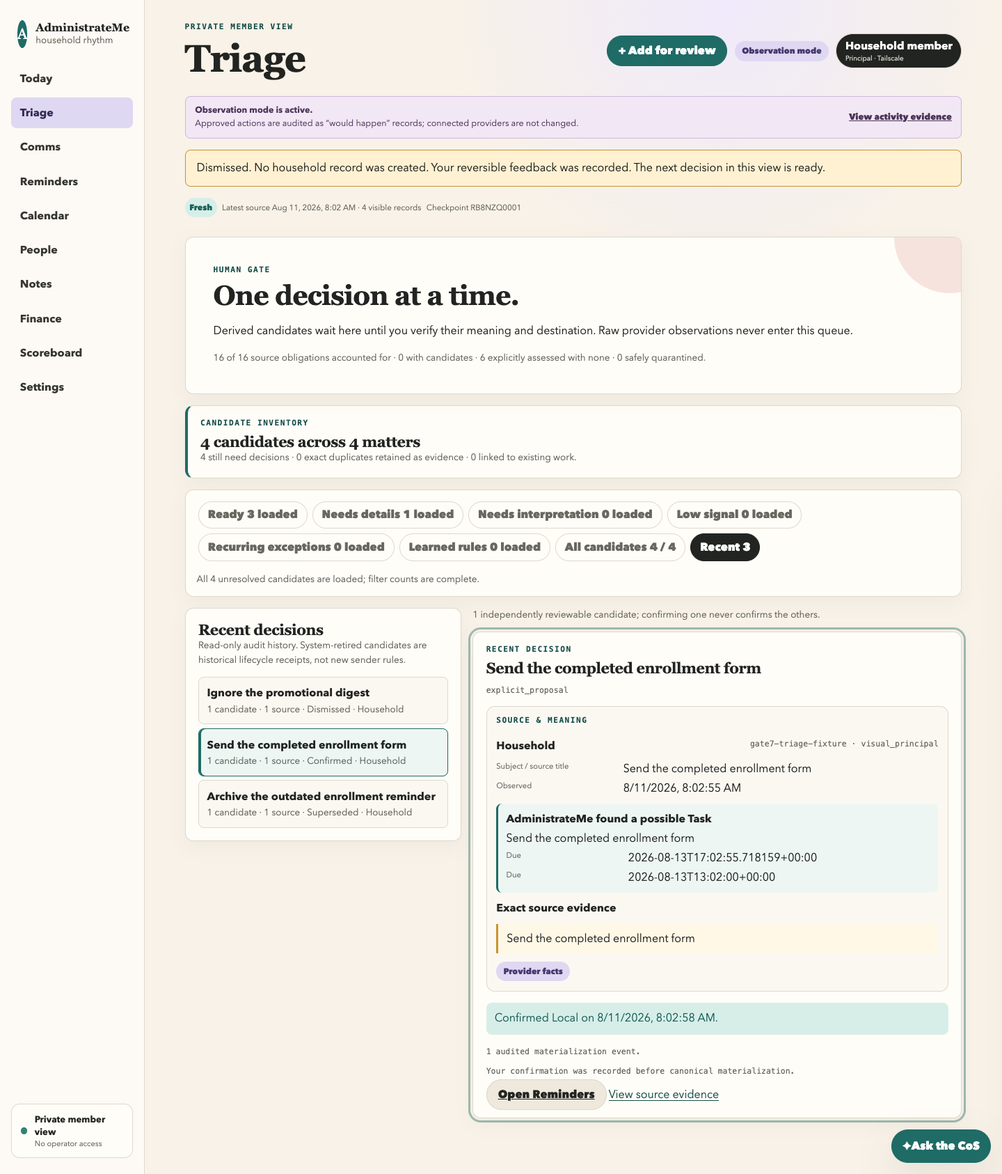
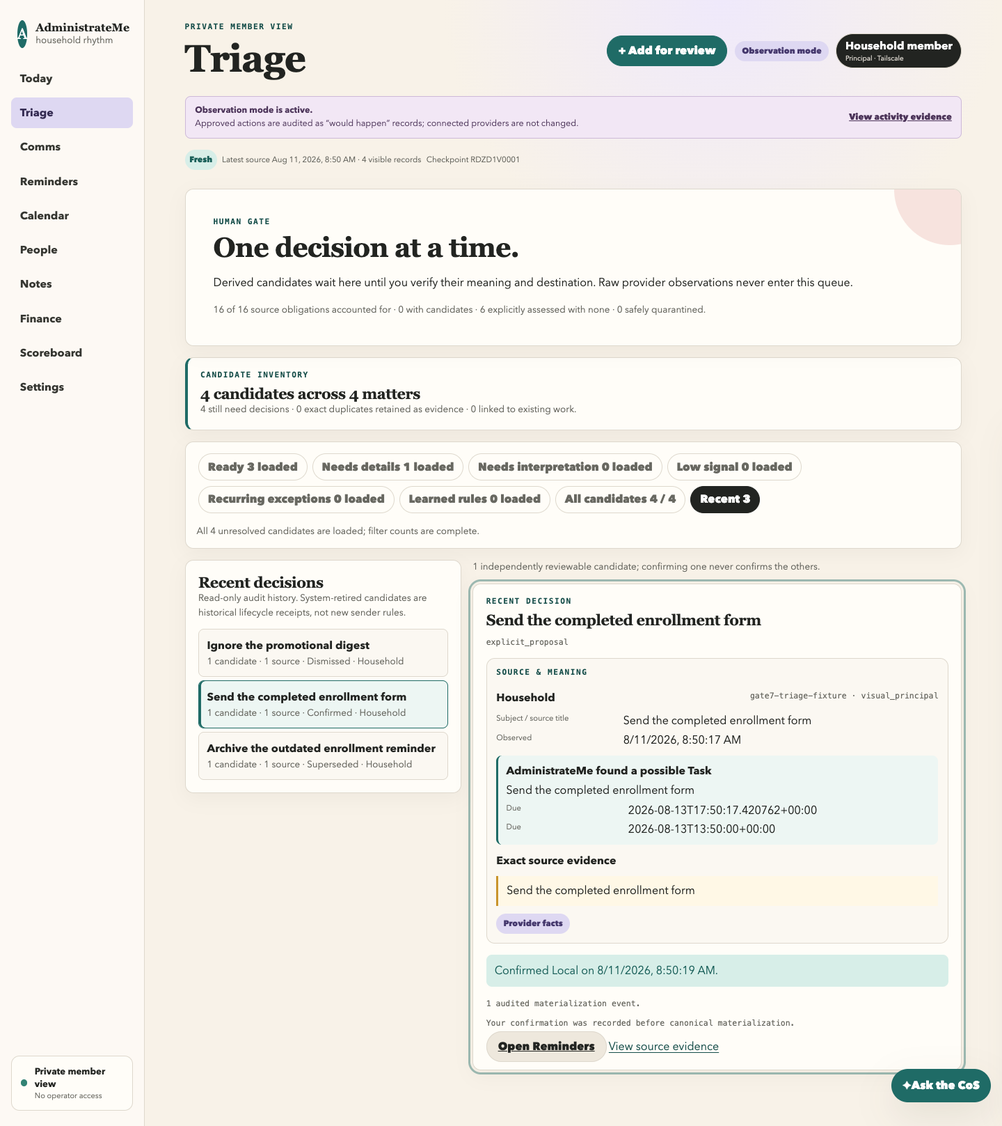
Clear stale Triage continuation on lens change

diff --git a/adminme/products/member/assets/member.js b/adminme/products/member/assets/member.js
@@ -734,7 +734,7 @@ function triageSurface(data) {
     const count = key === "recent" ? recent.length : pending.filter((item) => triageCandidateMatches(item, key)).length;
     const countLabel = key === "recent" ? `${count}` : key === "all_candidates" ? `${count} / ${candidateCount}` : `${count} loaded`;
     const button = text("button", `${label} ${countLabel}`, "comms-filter"); button.type = "button"; button.setAttribute("aria-pressed", String(state.triageView === key));
-    button.addEventListener("click", () => { state.triageView = key; state.triageSelected = null; state.triageMatter = null; state.triageFocusPending = false; data.focus = { requested_candidate_id: null, state: "not_requested", candidate_state: null, matter_id: null }; replaceQuery({ view: key, item: null, matter: null }); renderSurface(data); }); tabs.append(button);
+    button.addEventListener("click", () => { clearBanner(); state.triageView = key; state.triageSelected = null; state.triageMatter = null; state.triageFocusPending = false; data.focus = { requested_candidate_id: null, state: "not_requested", candidate_state: null, matter_id: null }; replaceQuery({ view: key, item: null, matter: null }); renderSurface(data); }); tabs.append(button);
   }
   controls.append(tabs);
   if (data.triage?.has_more) controls.append(text("p", `${pending.length} of ${candidateCount} candidates are loaded. Filter counts marked “loaded” cover this cursor window; the complete inventory totals are above. Load more matters to continue toward zero.`, "state-note"));

diff --git a/docs/refactor/evidence/gate-7/visual/README.md b/docs/refactor/evidence/gate-7/visual/README.md
@@ -40,6 +40,7 @@ The harness starts credential-free loopback fixtures, uses Google Chrome via pla
 - PASS: Triage dismissal records feedback without leaving the work queue
 - PASS: Triage keeps the selected member bound to the signed-in identity
 - PASS: Triage receipt is destination-readable before return
+- PASS: Changing Triage lenses clears view-relative continuation feedback
 - PASS: Recent distinguishes eligibility replacement from learned sender rules without inventing provenance
 - PASS: Recent decision retains destination receipt
 - PASS: Google Tasks uses only its reviewed date capability
@@ -215,12 +216,12 @@ The harness starts credential-free loopback fixtures, uses Google Chrome via pla
 - PASS: tablet reduced-motion keyboard focus indicator
 - PASS: reduced motion honored
 - PASS: private quest created
-- PASS: /member/quests/view_79bdca80a1394244 HTTP
-- PASS: /member/quests/view_79bdca80a1394244 title
+- PASS: /member/quests/view_92e72d9c413c43c6 HTTP
+- PASS: /member/quests/view_92e72d9c413c43c6 title
 - PASS: private quest undiscoverable
 - PASS: quest promoted by explicit review
-- PASS: /member/quests/view_79bdca80a1394244 HTTP
-- PASS: /member/quests/view_79bdca80a1394244 title
+- PASS: /member/quests/view_92e72d9c413c43c6 HTTP
+- PASS: /member/quests/view_92e72d9c413c43c6 title
 - PASS: archived quest has no navigation entry
 - PASS: expiring quest created
 - PASS: expired quest has no navigation entry
@@ -250,35 +251,35 @@ The harness starts credential-free loopback fixtures, uses Google Chrome via pla
 
 ## Screenshots
 
[56 lines of base64/hex data omitted]
@@ -288,4 +289,4 @@ The harness starts credential-free loopback fixtures, uses Google Chrome via pla
[5 lines of base64/hex data omitted]

diff --git a/docs/refactor/ACCEPTANCE-CONTRACT.md b/docs/refactor/ACCEPTANCE-CONTRACT.md
@@ -7,7 +7,8 @@ pressed, and the next visible matter remains manageable. Exact resolved deep
 links still open Recent. Dismissing the final Ready item reports the empty
 refreshed Ready queue truthfully. Historical eligibility-rule supersessions retain their
 immutable state while rendering as context-or-eligibility lifecycle receipts
-rather than inventing migration provenance or new member sender rules.
+rather than inventing migration provenance or new member sender rules. Moving
+to another Triage lens clears the prior lens-relative continuation message.
 
 CO-015 live evidence (2026-08-11): PR #331 exact head
 `ca1a29033e48d5d6d32a0cd77de3fc0c1266778f` passed independent full-diff
@@ -301,7 +302,7 @@ post-merge activation boundary and cannot be represented as a fixture pass.
 | AC-38 | Gmail pack tests and `test_supervisor_initial_backfill_is_bounded_and_restart_durable` in `tests/integration/test_adapter_supervisor_gmail.py`; full source-assurance, Comms/Triage, bootstrap, Doctor, and guarded live checklist | Before any first-use history acquisition, Gmail durably snapshots the incremental cursor; an installation that already has a forward cursor but no policy receipt must still acquire. Validated capped `messages.list` queries exclude drafts and spam/trash; member-private historical seeds run first, exact non-member seed participants expand through bounded date-window queries, and recent history fills only the remaining global cap. Synchronous provider acquisition runs off the central asyncio loop, and a held-open provider call cannot block runtime health or unrelated scheduling. The bounded batch is fetched before append, with generic/related context before reviewed seeds and each group oldest-first, so newest-first provider results cannot strand a thread anchor with incomplete context. All messages use the ordinary account-bound direction/dedupe/quarantine path, and a content-free policy-digest completion marker is recorded only after terminal handling. A message that disappears between provider discovery and `messages.get` is terminally quarantined, does not increment the transport-error cursor, and does not degrade an otherwise successful Gmail polling cycle. Query text cannot enter events, status, or cursor IDs. Recreating the adapter with the same store never relists or re-emits the bounded history. Truncation is explicit. Every deterministic context reason is admitted atomically by the pinned skill input and typed Triage context schemas, and a reviewed consumer generation replays immutable facts rejected by the prior schema. A new generation is mandatory after a rejected live attempt has retained conflicting idempotency state; history is never deleted to escape the conflict. The idempotent language-bound consumer retains the reviewed eight-way width, collapses a repeated typed identity within one recorded interpretation before its assessment/proposal boundary, moves deliberately shared cross-source identities through atomic first-equivalent-writer handling, keeps ordered-prefix checkpoints and a one-hour guarded settlement ceiling, and serializes at most two transient pinned-seam recovery attempts under separate deterministic durable invocation identities without weakening terminal failure; any new non-source capability degradation during settlement causes immediate full Doctor and rollback. Liveness, terminal equality, synthetic proof, and automatic rollback remain mandatory. Downstream contextual reasoning can recover distinct human-gated work from acquired thread history and exact authored participant references in same-scope third-party notices, but acquisition itself cannot create canonical truth or any provider effect. |
 | AC-39 | `tests/unit/test_{projection_context_fabric,triage_inventory}.py`; `tests/acceptance/test_co014_context_fabric_stress.py`; `scripts/acceptance/context-fabric-two-year-simulation.py`; Triage API/browser, migration, replay, Doctor, backup/restore, and performance gates | The fifteenth `context_fabric` projection stores no source bodies, rebuilds exactly, and exposes only tenant/member/private-scope bounded authoritative traversal; model suggestions cannot enter that traversal. Provider conversations and 30-day/100-source deterministic matters remain distinct. Candidate Inventory reports complete counts and stable cursor pages; the Decision Queue displays one matter with independently decidable children. Exact duplicates and unambiguous existing Task/Calendar/Reminder/Recurrence matches remain evidence, not extra work; ambiguity remains review. Typed dismissal feedback can suggest a rule only after repetition; preview counts are stale-safe, approval is explicit/reversible/shadow-only, and no rule confirms, suppresses, routes, or writes. Fixed-seed two-member low/base/high 730-day runs admit 100% of high-priority sources, lose zero inventory rows, create zero cross-scope links/provider effects, keep the base decision backlog bounded, cap traversal/matter size, and stay within reviewed storage/query estimates. Production HTTP proves every fixture candidate reachable exactly once and cross-member invisible before and after Triage/Context Fabric replay. |
 | AC-40 | `tests/unit/test_{today_brief,triage_inventory,surface_contracts,comms}.py`; CO-015 assertions in `tests/acceptance/test_{co014_context_fabric_stress,gate7_household_experience}.py`; Gate 7 browser harness; authenticated live Today/Triage/Comms/Notes/Scoreboard review; release/Doctor/backup checks | `member-decision-context-v1` deterministically names the member question, situation, reason, source, uncertainties, fixed consequences, next step, candidate, matter, and member authority without copying source bodies or granting model/write authority. An off-page pending candidate, a resolved candidate beyond the ordinary recent limit, and a nonexistent/cross-member id produce exact pending/resolved/not-found focus state with no substituted item. Candidate-and-matter URL state survives reload/history and deliberate lens escape. Comms and Notes retain exact candidate/matter links; Scoreboard active Tasks return to exact Reminders items; all ten adult routes participate in the non-authorizing typed link contract. Desktop/tablet/390-pixel rendering, names, focus, reduced motion, overflow, source disclosure, zero console/page/request failures, observation mode, and zero unintended provider effects pass. |
-| AC-41 | CO-016 Gate 7 browser assertions plus existing Triage API/projection, feedback, learning-policy, source-assurance, replay, privacy/isolation, and release gates | Confirm and Dismiss & teach each clear the resolved candidate/matter URL state, preserve the active working lens, select the next available matter when present, and leave feedback derived from the refreshed visible lens without opening Recent. Dismissing the only Ready item in an isolated member queue reports that the member is caught up and that nothing is ready to confirm. A direct exact link to a resolved candidate remains read-only and inspectable. Recent identifies `eligibility_rule_replaced` as historical context-or-eligibility replacement, not a proven migration or sender rule learned from the current dismissal. No event, feedback receipt, immutable decision, learned-rule boundary, canonical record, projection authority, or provider-write gate is weakened. |
+| AC-41 | CO-016 Gate 7 browser assertions plus existing Triage API/projection, feedback, learning-policy, source-assurance, replay, privacy/isolation, and release gates | Confirm and Dismiss & teach each clear the resolved candidate/matter URL state, preserve the active working lens, select the next available matter when present, and leave feedback derived from the refreshed visible lens without opening Recent. Dismissing the only Ready item in an isolated member queue reports that the member is caught up and that nothing is ready to confirm. Selecting a different lens clears the prior lens-relative continuation feedback before rendering it. A direct exact link to a resolved candidate remains read-only and inspectable. Recent identifies `eligibility_rule_replaced` as historical context-or-eligibility replacement, not a proven migration or sender rule learned from the current dismissal. No event, feedback receipt, immutable decision, learned-rule boundary, canonical record, projection authority, or provider-write gate is weakened. |
 
 ## Aggregate release command
 

diff --git a/docs/refactor/CONSTITUTIONAL-CROSSWALK.md b/docs/refactor/CONSTITUTIONAL-CROSSWALK.md
@@ -6,7 +6,8 @@ Resolving one candidate consumes its exact focus and leaves the member in the
 chosen work lens; immutable Recent history remains separately inspectable and
 labels context-or-eligibility replacement distinctly from reversible feedback
 without inventing migration provenance. Continuation feedback is derived from
-the refreshed visible lens and says the member is caught up when it is empty.
+the refreshed visible lens, says the member is caught up when it is empty, and
+is cleared before a deliberately selected different lens renders.
 
 CO-013 amendment (2026-08-10): C002/C004/C007/C025/C034/C106-C108 now require
 bounded durable acquisition of pre-existing provider history when a forward-
@@ -466,7 +467,7 @@ Source abbreviations: **VISION** = WHAT-IS; **BUILD** = ADMINISTRATEME_BUILD; **
 | C109 | A source cannot be called complete merely because incremental observation began successfully; adapters that would omit actionable pre-install history must perform a bounded, durable, truthfully reported acquisition before relying on the forward cursor, without blocking central runtime liveness while synchronous provider I/O is in flight; deterministic context vocabulary must remain atomic across producer, pinned language input, and typed projection schemas; a record that disappears after provider discovery must receive an audited quarantine without falsely degrading the otherwise advancing adapter | ADHD prospective-memory objective; eight-stage Observe loop; D19; central-runtime topology; CO-007/CO-008/CO-010/CO-013; C002/C004/C007/C025/C034/C106-C108 | Gmail adapter v1.1.1, cursor-before-list ordering, private historical seed priority, deterministic exact-participant/date expansion, validated recent/global hard ceilings, draft/spam/trash exclusion, worker-thread provider acquisition, cross-schema context-vocabulary tests, reviewed failed-fact replay, typed direction/dedupe/quarantine path with healthy cursor advance after a list/get deletion race, content-free policy-digest completion cursor, event-loop liveness and supervisor restart proof | PRESERVE provider/event/privacy/human/write authority and one central runtime; HARDEN source completeness, liveness, schema compatibility, truthful health, and record-race accounting; SUPERSEDE forward-only first-run snapshot and quarantine-as-transport-backoff | AC-07–AC-12, AC-14, AC-21, AC-25, AC-33–AC-38 |
 | C110 | Context is a typed, temporal, scoped, rebuildable relationship index—not truth, model memory, or a universal Project—and complete candidate inventory is distinct from the bounded member decision queue | ADR-0008; CO-014; ADHD working-memory/noise-filtering objective; C001-C109 | Fifteenth `context_fabric` projection; authority-coded edges; private bounded traversal; 30-day/100-source matter episodes; exact duplicate/existing-object/recurrence evidence reconciliation; full cursor inventory; matter-first Triage; typed feedback and reversible shadow rules; fixed-seed two-year and production pagination/replay proofs | PRESERVE all prior authority/privacy/domain boundaries; MODERNIZE context and Triage; SUPERSEDE exact-fourteen count, hidden truncation, provider-thread-as-matter, scalar-confidence UI, and generic non-learning dismissal | AC-02, AC-07–AC-09, AC-14, AC-18, AC-20–AC-24, AC-39 |
 | C111 | Every projected member decision is comprehensible at the point of attention and every cross-surface object route preserves exact typed identity without granting authority | ADHD working-memory/task-initiation objective; CO-015; UX-03/05/10/24/46/48/55–58; C097/C101/C107/C108/C110 | `member-decision-context-v1`; candidate-and-matter surface links; cursor-independent scoped Triage focus with pending/resolved/not-found state; exact Comms/Notes candidates; Scoreboard Task return links; all-ten-route `surface-link-v1`; production composition; 229-check browser proof; reviewed merge, guarded activation, healthy Doctor, authenticated exact-focus/phone proof, and zero provider-called effects | PRESERVE source/event/privacy/member-decision/write boundaries; MODERNIZE comprehension and navigation; SUPERSEDE headline-only decisions, top-of-surface links, silent fallback, and stale focus snapback | AC-08, AC-11, AC-12, AC-14, AC-18, AC-24, AC-28, AC-39, CO-015 release evidence |
-| C112 | Resolving one Triage candidate preserves the member's chosen decision-work context and cannot visually recast unrelated immutable audit receipts as consequences of that action | ADHD working-memory/task-initiation/noise-filtering objective; CO-014/CO-015/CO-016; UX-49–59; C097/C101/C107/C110/C111 | Client focus consumption before reload; refreshed-lens continuation or truthful caught-up state; exact resolved deep-link preservation; explicit Recent audit-history framing; provenance-bounded eligibility-replacement language; confirm/dismiss browser regression proof | PRESERVE immutable events, reversible feedback, exact links, human gating, privacy, and provider-write boundaries; HARDEN queue continuity and authority legibility; SUPERSEDE automatic post-decision Recent jump and ambiguous raw reason labels | AC-18, AC-24, AC-39–AC-41 |
+| C112 | Resolving one Triage candidate preserves the member's chosen decision-work context and cannot visually recast unrelated immutable audit receipts as consequences of that action | ADHD working-memory/task-initiation/noise-filtering objective; CO-014/CO-015/CO-016; UX-49–59; C097/C101/C107/C110/C111 | Client focus consumption before reload; refreshed-lens continuation or truthful caught-up state; lens-change cleanup; exact resolved deep-link preservation; explicit Recent audit-history framing; provenance-bounded eligibility-replacement language; confirm/dismiss browser regression proof | PRESERVE immutable events, reversible feedback, exact links, human gating, privacy, and provider-write boundaries; HARDEN queue continuity and authority legibility; SUPERSEDE automatic post-decision Recent jump and ambiguous raw reason labels | AC-18, AC-24, AC-39–AC-41 |
 
 ## Source coverage index
 

diff --git a/docs/refactor/UX-BEHAVIOR-CONTRACT.md b/docs/refactor/UX-BEHAVIOR-CONTRACT.md
@@ -9,7 +9,8 @@ merely because the prior candidate is now resolved. Recent remains read-only
 audit history and distinguishes historical context-or-eligibility replacement
 receipts from member-authored feedback and learned-rule state without claiming
 unproven migration provenance. Direct exact links to resolved candidates
-continue to open their immutable receipt.
+continue to open their immutable receipt. Deliberately changing Triage lenses
+clears prior lens-relative continuation feedback before rendering the new lens.
 
 CO-015 amendment (2026-08-10): every Today clarifying decision publishes a
 `member-decision-context-v1` review contract with a direct member question,
@@ -221,7 +222,7 @@ Each `UX-*` item is executable through browser/API/accessibility tests in Gate 3
 | UX-56 | Today, Comms, Notes, and any other candidate-bearing surface link the exact Triage candidate and matter. Triage resolves a scoped `triage_item` independently of its ordinary cursor and returns explicit pending, resolved, or unavailable focus state. Reload/history/filter state cannot substitute another candidate, reopen a decision, or change queue truth. |
 | UX-57 | A deliberate Triage lens change clears exact-link focus. An asynchronous or stale focus response cannot force the member back to the linked lens after that choice. The selected candidate receives keyboard focus without creating a decision or provider effect. |
 | UX-58 | Every stable adult surface participates in `surface-link-v1`. Where a surface shows a canonical item owned by another surface, it exposes an exact return path or explicitly states that no destination surface exists; generic top-of-page navigation is not an object link. |
-| UX-59 | After confirm or Dismiss & teach, Triage clears the resolved candidate and matter from URL and client focus, preserves Ready/Needs details/Needs interpretation/Low signal/Recurring exceptions/Learned rules/All candidates, and derives its continuation message from the refreshed visible lens: select the next matter when one remains, say the member is caught up when none remains, or disclose that more matters must be loaded. Recent is entered only by explicit member choice or an exact resolved deep link. Historical `eligibility_rule_replaced` receipts say only that source context or eligibility changed; they do not claim a system migration or a sender-wide rule created by the current dismissal. |
+| UX-59 | After confirm or Dismiss & teach, Triage clears the resolved candidate and matter from URL and client focus, preserves Ready/Needs details/Needs interpretation/Low signal/Recurring exceptions/Learned rules/All candidates, and derives its continuation message from the refreshed visible lens: select the next matter when one remains, say the member is caught up when none remains, or disclose that more matters must be loaded. Deliberately changing lenses clears that lens-relative message before the new lens renders. Recent is entered only by explicit member choice or an exact resolved deep link. Historical `eligibility_rule_replaced` receipts say only that source context or eligibility changed; they do not claim a system migration or a sender-wide rule created by the current dismissal. |
 
 ## State model
 

diff --git a/docs/refactor/CHANGE-ORDER-016-TRIAGE-QUEUE-CONTINUITY.md b/docs/refactor/CHANGE-ORDER-016-TRIAGE-QUEUE-CONTINUITY.md
@@ -32,6 +32,8 @@ The defect was presentation state and authority legibility.
 - An exact external link to a resolved candidate still opens its immutable
   Recent receipt.
 - Recent is plainly read-only audit history.
+- A deliberate lens change clears prior lens-relative continuation feedback so
+  it cannot describe the newly selected lens.
 - `eligibility_rule_replaced` is rendered as context-or-eligibility
   replacement, not as a proven migration or rule created by the current
   dismissal.
@@ -44,6 +46,7 @@ The defect was presentation state and authority legibility.
 |---|---|---|
 | Consume exact focus after successful decision | HARDEN | Client presentation only; the audited result remains immutable and exactly linkable. |
 | Preserve the active working lens and choose the next visible matter | MODERNIZE | Deterministic existing ordering; no model rank, hidden suppression, or new queue store. |
+| Clear lens-relative feedback on deliberate lens change | HARDEN | Browser presentation only; the decision and feedback receipts remain immutable. |
 | Relabel eligibility supersession receipts without inferring provenance | HARDEN | Copy changes; event reason and projection state are not rewritten. |
 | Keep resolved deep links read-only and exact | PRESERVE | CO-015 scope checks and no-substitution behavior remain authoritative. |
 
@@ -55,6 +58,7 @@ object, provider object, projection count, or external-write path changes.
 AC-41 requires production-composition browser proof for confirm continuity,
 typed spam-dismiss continuity, next-matter selection, candidate/matter URL
 cleanup, a final-Ready-item caught-up state, explicit member navigation to Recent,
-provenance-bounded lifecycle-receipt copy, and preserved destination receipts.
+cleared lens-relative continuation copy, provenance-bounded lifecycle-receipt
+copy, and preserved destination receipts.
 Existing Triage projection/API, feedback, learning-policy, replay,
 privacy/isolation, release, and observation gates must remain green.

diff --git a/docs/refactor/HANDOFF.md b/docs/refactor/HANDOFF.md
@@ -2125,15 +2125,18 @@ and matter URL state, preserves the active working lens, and selects the next
 visible matter after both confirm and Dismiss & teach. Exact external links to
 resolved candidates still open their immutable Recent receipt. When no matter
 remains in the refreshed lens, feedback says the member is caught up rather
-than promising another decision. Recent identifies itself as read-only audit
-history, and eligibility-rule supersession copy states only that context or
-eligibility changed rather than claiming a migration or learned sender rule.
-No event/projection/schema/runtime/provider behavior changes.
+than promising another decision. A deliberate lens change clears that
+lens-relative feedback before rendering its new context. Recent identifies
+itself as read-only audit history, and eligibility-rule supersession copy
+states only that context or eligibility changed rather than claiming a
+migration or learned sender rule. No event/projection/schema/runtime/provider
+behavior changes.
 
 Gate 7 now performs a real task confirmation, a typed spam dismissal, next-
-matter continuation, final-Ready-item caught-up feedback, URL cleanup, direct Recent
-selection, and provenance-bounded lifecycle-receipt copy assertion in
-production composition. The repaired candidate passes 235 assertions and 39
+matter continuation, final-Ready-item caught-up feedback, URL cleanup,
+lens-change banner cleanup, direct Recent selection, and provenance-bounded
+lifecycle-receipt copy assertion in production composition. The repaired
+candidate passes 236 assertions and 39
 screenshots with zero console/page/request failures. It also passes 49 strict
 acceptance gates, 1,792 root/code/pack tests, 60 bridge tests, all
 static/dependency/performance/architecture/package gates, clean install,

diff --git a/docs/refactor/evidence/co-016-triage-queue-continuity.md b/docs/refactor/evidence/co-016-triage-queue-continuity.md
@@ -20,6 +20,8 @@ Gate 7 contains generated tenant-neutral fixtures and assertions for:
 - typed Spam dismissal staying in Ready and selecting a remaining matter;
 - dismissal of an isolated member's only Ready candidate reporting the empty
   refreshed Ready queue as caught up;
+- explicit navigation to another lens clearing the prior lens-relative
+  continuation message;
 - explicit navigation to Recent;
 - exact selection of an eligibility-retired historical candidate;
 - provenance-bounded lifecycle-receipt language that cannot be mistaken for a
@@ -34,7 +36,7 @@ Focused Triage/projection/pipeline/production-composition tests
 48 passed
 
 Gate 7 rendered production composition
-235 assertions; 39 screenshots; 0 console errors; 0 page errors;
+236 assertions; 39 screenshots; 0 console errors; 0 page errors;
 0 request failures
 
 Full release-candidate suite

diff --git a/docs/refactor/MIGRATION-MAP.md b/docs/refactor/MIGRATION-MAP.md
@@ -1,8 +1,9 @@
 # Migration map
 
 CO-016 update (2026-08-11): Triage queue continuation is **HARDENED IN THE
-REVIEWED CANDIDATE** with browser-only focus consumption and presentation
-copy. No event, projection row, schema, adapter, pipeline, provider object,
+REVIEWED CANDIDATE** with browser-only focus consumption, lens-relative banner
+cleanup, and presentation copy. No event, projection row, schema, adapter,
+pipeline, provider object,
 credential, runtime, or dependency migrates. Existing
 `eligibility_rule_replaced` supersession events and feedback receipts remain
 immutable; the member surface now labels their different authority correctly
